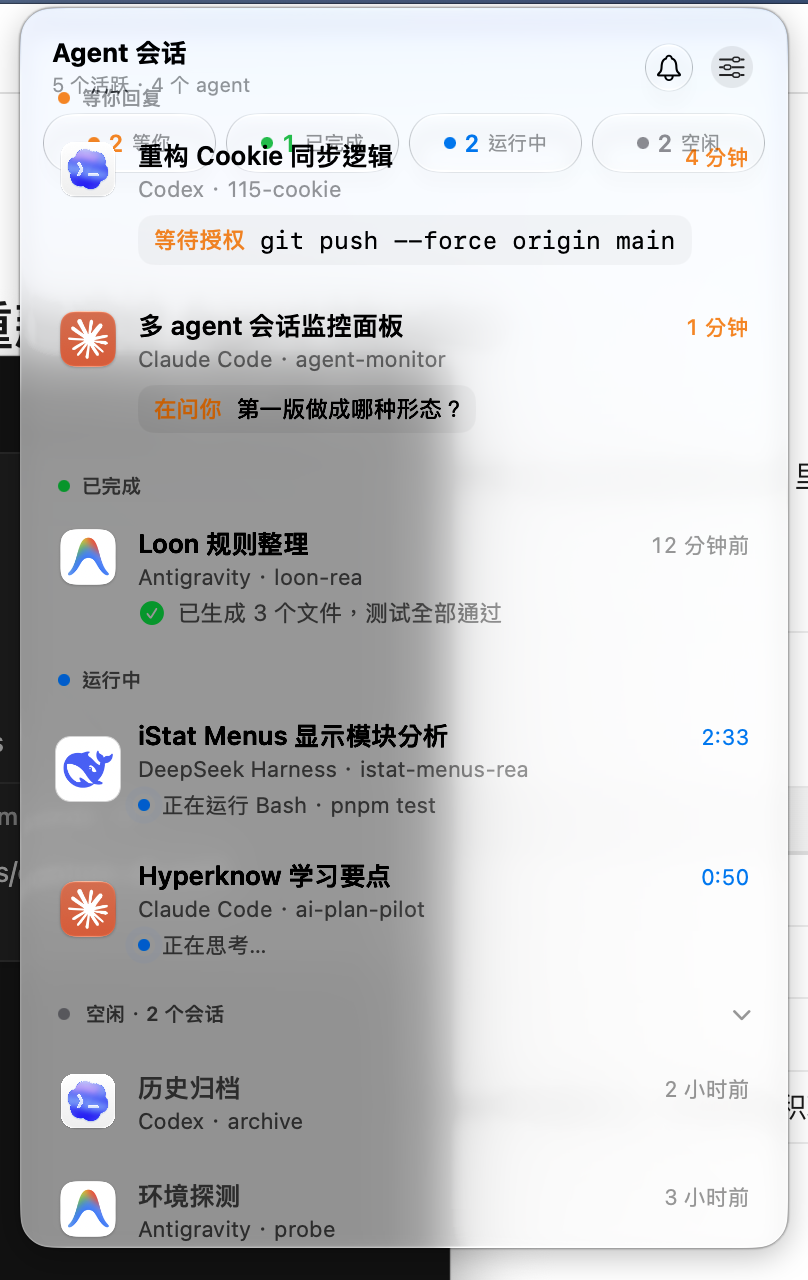
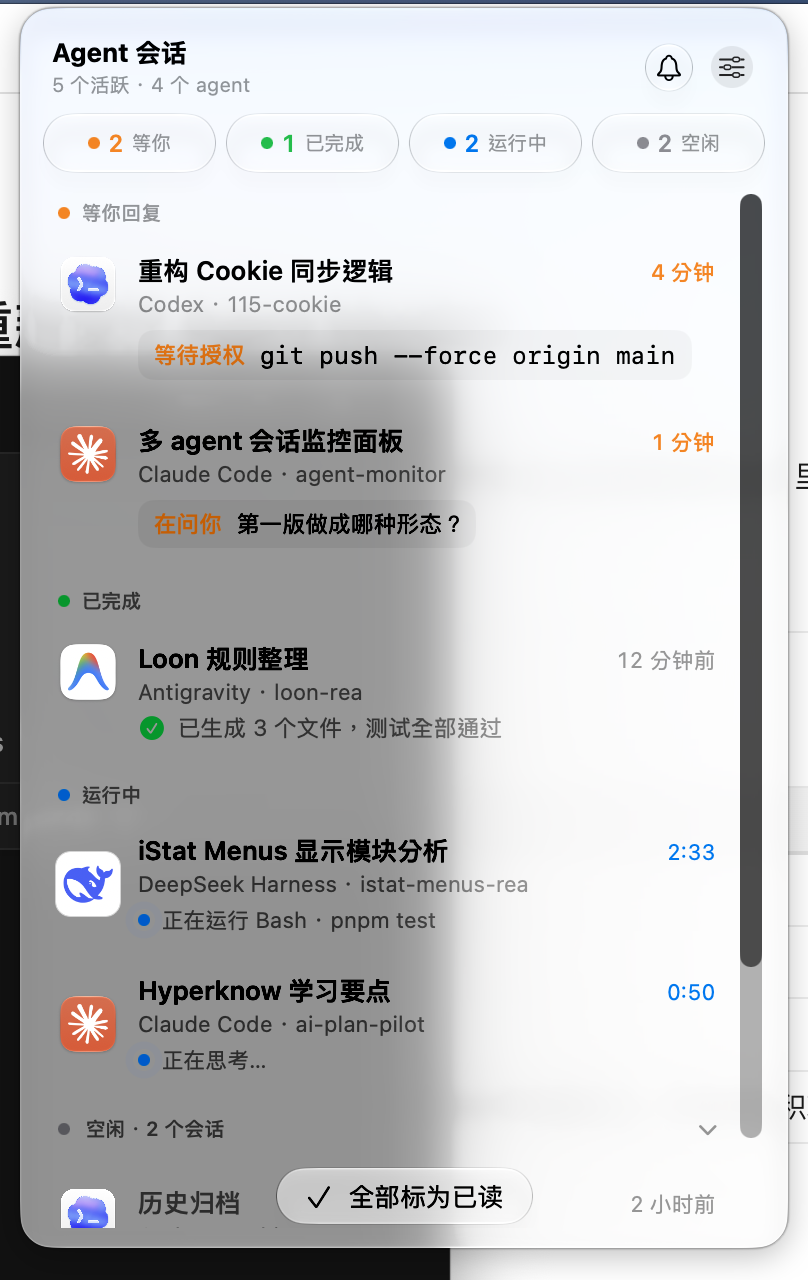
fix(panel): fix list overflow and height calculation with onGeometryChange (#1)

diff --git a/Sources/AgentMonitor/Panel/SessionList.swift b/Sources/AgentMonitor/Panel/SessionList.swift
@@ -4,6 +4,13 @@ import AgentMonitorCore
 struct SessionList: View {
     @ObservedObject var viewModel: MonitorViewModel
     @LocalState private var isIdleHovered = false
+    @LocalState private var contentHeight: CGFloat = 0
+    @LocalState private var buttonHeight: CGFloat = 46
+
+    private var showBottomButton: Bool {
+        viewModel.sessions.contains(where: { $0.state == .completed }) &&
+        (viewModel.filterState == nil || viewModel.filterState == .completed)
+    }
 
     var body: some View {
         ScrollView {
@@ -89,10 +96,14 @@ struct SessionList: View {
             }
             .fixedSize(horizontal: false, vertical: true)
             .padding(.horizontal, 1)
+            .onGeometryChange(for: CGFloat.self) { $0.size.height } action: { newHeight in
+                contentHeight = newHeight
+            }
         }
+        .scrollBounceBehavior(.basedOnSize)
         .scrollEdgeEffectStyle(.soft, for: [.top, .bottom])
         .safeAreaInset(edge: .bottom) {
-            if viewModel.sessions.contains(where: { $0.state == .completed }) {
+            if showBottomButton {
                 Button(action: {
                     withAnimation(.smooth) {
                         viewModel.markAllAsRead()
@@ -105,11 +116,15 @@ struct SessionList: View {
                 .glassEffectTransition(.materialize)
                 .padding(.top, 4)
                 .padding(.bottom, 2)
+                .onGeometryChange(for: CGFloat.self) { $0.size.height } action: { newHeight in
+                    buttonHeight = newHeight
+                }
                 .frame(maxWidth: .infinity)
             }
         }
-        .fixedSize(horizontal: false, vertical: true)
+        .frame(height: contentHeight > 0 ? min(contentHeight + (showBottomButton ? buttonHeight : 0), 520) : nil)
         .frame(maxHeight: 520)
+        .clipped()
     }
 
     private func sectionHeader(title: String, dotColor: Color) -> some View {

diff --git a/scripts/capture-all.swift b/scripts/capture-all.swift
@@ -141,6 +141,10 @@ for isDark in [false, true] {
             "AGENT_MONITOR_MOCK_DATA": "1",
             "AGENT_MONITOR_IDLE_EXPANDED": "1"
         ]),
+        ("panel-large", [
+            "AGENT_MONITOR_MOCK_DATA": "large",
+            "AGENT_MONITOR_IDLE_EXPANDED": "1"
+        ]),
         ("panel-empty", [
             "AGENT_MONITOR_MOCK_DATA": "empty"
         ])

diff --git a/docs/GEMINI_LIQUID_GLASS_FIX.md b/docs/GEMINI_LIQUID_GLASS_FIX.md
@@ -1,0 +1,127 @@
+# 任务：Liquid Glass 重设计 · 修复轮
+
+这份任务基于对 `c9a86e4..a95ac4f` 这 7 个提交的 review，对应的原方案是 `docs/GEMINI_LIQUID_GLASS.md`。
+
+整体方向做对了，有几处做得不错：
+- 拆分文件、换用语义色、行内 hover、合并后的 `SessionRow`、筛选胶囊的变形动效，都符合方案；
+- 用 `@LocalState` 绕开 CLT 环境下缺少 `SwiftUIMacros` 的问题，这一点我实测过，是对的。
+
+下面这些问题还要修。规则和上一轮一样：
+- 每一项单独提交，提交信息写上条目编号，例如 `fix(panel): ... (#1)`；
+- 遵守硬性原则：只读访问、不碰凭据、不联网；
+- `AgentMonitorCore` 里除了 `MenuBarIconRenderer`，其他文件一律不改；
+- 每次提交前都要通过 `swift build` 和 `swift test`。
+
+---
+
+## #1 会话多时，列表溢出并盖住头部（P0）
+
+**现象**：看你自己生成的截图 `docs/screenshots/panel-idle-expanded-dark.png`：
+- 「等你回复」分组画到了标题和筛选条上面；
+- 列表底部被截掉了；
+- 「全部标为已读」按钮也不见了，虽然 mock 数据里有已完成的会话。
+
+HANDOFF 里写的「16 条数据压测，高度稳定在 620pt」和截图对不上。
+
+**原因**：问题出在 `SessionList.swift` 末尾的这段写法：
+
+```swift
+.fixedSize(horizontal: false, vertical: true)
+.frame(maxHeight: 520)
+```
+
+`fixedSize` 让 ScrollView 不再接受外面给的高度，直接按内容的完整高度来画。外层的 `frame(maxHeight:)` 只能限制框本身的大小，限制不住里面的内容，所以内容会上下溢出，也就不会出现滚动。
+
+**改法**：
+1. 删掉 ScrollView **外层**的 `.fixedSize(...)`。内层 VStack 上的那个可以保留。
+2. 用 `onGeometryChange` 量出内容的实际高度，存到 `@LocalState private var contentHeight: CGFloat = 0`。
+3. 给 ScrollView 设 `.frame(height: min(contentHeight, 520))`。这样会话少时面板收紧，会话多时固定为 520 并且可以滚动。
+4. 量出的高度要把 `safeAreaInset` 里底部按钮的高度也算进去，否则最后一行会被按钮挡住。要么在量高度时把按钮高度一起算上，要么滚到底时给列表留出一段等高的空白。
+5. 加上 `.scrollBounceBehavior(.basedOnSize)`，内容不够长时就不要有回弹。
+
+**验收**：
+- `capture-all.swift` 增加一组 `panel-large` 截图（`AGENT_MONITOR_MOCK_DATA=large` 加 `AGENT_MONITOR_IDLE_EXPANDED=1`），浅色和深色各一张；
+- 重新生成 `panel-idle-expanded-*` 截图；
+- 截图里头部和筛选条完整不被覆盖，列表可以滚动，「全部标为已读」可见；
+- 同时确认会话少的 `panel-*` 截图里，面板仍然随内容收紧，没有出现大块空白。
+
+## #2 筛选会卡死，没办法取消（P1）
+
+**复现**：
+1. 选中「已完成」筛选；
+2. 点击那条已完成的会话；
+3. 会话被标为已读，「已完成」的数量变成 0；
+4. `FilterBar` 里 `.disabled(count == 0)` 把这枚**仍然处于选中状态**的胶囊禁用了，没法再点一次取消；
+5. 列表一片空白，连空状态提示都不显示。
+
+`filterState` 存在 ViewModel 里，所以重新打开面板还是卡在这个状态。
+
+**改法**（两处都要改）：
+1. 在 `MonitorViewModel` 里，`sessions` 每次更新后都检查一下：如果当前 `filterState` 对应状态的数量是 0，就把 `filterState` 设为 `nil`，并用 `withAnimation(.bouncy)` 包起来。这里说的「更新」包括 `onSessionsUpdated`、`markAsRead`、`markAllAsRead` 这几条路径。最好在 `sessions` 的 `didSet` 里统一处理。
+2. 在 `FilterBar` 里，只有在「数量为 0 **而且**没有被选中」时才禁用胶囊。
+
+**验收**：
+- 在 HANDOFF 里写清楚按上面步骤手动复现的结果；
+- 如果方便，把「数量归零时清空筛选」这段逻辑抽成纯函数，并补一个单元测试。不方便就在 HANDOFF 里说明原因。
+
+## #3 菜单栏徽标对比度不够（P2）
+
+**现象**：白字对 `systemOrange` 加深 15% 后的底色，对比度大约只有 3:1，而且字重从 bold 降成了 semibold。10.5pt 属于小字，按要求对比度至少要 4.5:1。原来的 `#C2410C` 大约是 5:1。
+
+方案里写的「加深 15%」本身就不够，这是方案的问题，不是你的问题。
+
+**改法**：
+- 底色改成 `systemOrange` 的 sRGB 分量乘以 **0.65**。
+  - 我估算的结果：浅色外观约 4.9:1，深色外观约 4.6:1。
+  - 注意 0.70 不够，只有约 4.3:1。
+- 或者直接恢复 `#C2410C`，约 5.2:1。
+- 选其中一个，要求浅色和深色两种外观下白字对比度都 ≥ 4.5:1。`systemOrange` 是动态色，两种外观下的值不一样，两种都要算。把计算过程写进 HANDOFF。
+- 字重恢复为 `.bold`。
+
+**验收**：重新生成 `menubar-waiting-*` 和 `menubar-paused-*` 截图；`MenuBarIconRenderer` 的现有测试全部通过。
+
+## #4 浅色模式下两个头部按钮长得不一样（P2）
+
+**现象**：在 `panel-light.png` 里：
+- 铃铛是白色的玻璃圆，带高光；
+- 设置菜单是灰底的圆，没有玻璃质感。
+
+HANDOFF 里说 `Menu` 套用 glass 样式「原生支持」，但截图显示效果并不一样。
+
+**改法**：按原方案里写的备选写法来做：
+- `Menu` 的 label 手动加 `.glassEffect(.regular.interactive(), in: .circle)`，尺寸和铃铛按钮对齐（先实测铃铛按钮的大小，再给 label 设同样的 `frame`）；
+- `Menu` 本身改用 `.menuStyle(.button)` + `.buttonStyle(.plain)`，避免叠两层背景；
+- 确保这两个按钮仍然在同一个 `GlassEffectContainer` 里。
+
+**验收**：在 `panel-light.png` 和 `panel-dark.png` 里，两个按钮的大小、材质、阴影看起来一致。
+
+## #5 筛选时底部按钮的显示条件（P3）
+
+在「等你」筛选下，「全部标为已读」仍然会显示，但这时列表里一条已完成的会话都看不到，用户会不知道这个按钮作用在什么上。
+
+**改法**：显示条件改成：存在已完成会话，**并且** `filterState` 为 `nil` 或 `.completed`。
+
+**验收**：`panel-waiting-*` 截图里不再出现这个按钮。
+
+## #6 小修与补材料（P3）
+
+- 把 `LocalState` 从 `StatusStyle.swift` 移到单独的 `Panel/LocalState.swift`，并在注释里说明为什么不用 `@State`：CLT 环境缺少 `SwiftUIMacros` 插件。
+- HANDOFF 5.2 节里 #7 的提交号写错了，`d95b18d` 应该是 `a95ac4f`。改正，并按同样格式追加本轮的提交表。
+- 补交原方案验收清单要求的辅助功能截图：
+  - 在「系统设置 › 辅助功能 › 显示」里分别打开「降低透明度」和「增加对比度」，各截一张浅色面板图；
+  - 截图放在 `docs/screenshots/a11y/` 下，在 HANDOFF 里引用。
+  - 这两个开关需要你手动切换，**截完图要恢复原设置**，并在 HANDOFF 里注明已经恢复。
+
+---
+
+## 验收总表（Claude review 时会逐条检查）
+
+- [ ] `panel-large-*` 截图：头部不被覆盖，列表可以滚动，底部按钮可见。
+- [ ] 会话少时，面板随内容收紧。
+- [ ] 筛选「已完成」后把唯一一条标为已读，筛选会自动取消，不会卡死。
+- [ ] 菜单栏徽标白字对比度 ≥ 4.5:1，HANDOFF 里有计算过程。
+- [ ] 浅色和深色模式下，头部两个按钮外观一致。
+- [ ] `panel-waiting-*` 截图里没有「全部标为已读」按钮。
+- [ ] 辅助功能截图已提交，系统设置已恢复。
+- [ ] `swift build`、`swift test`、`./scripts/build-app.sh` 全部通过。
+- [ ] 每个条目一个提交，提交信息带编号。
